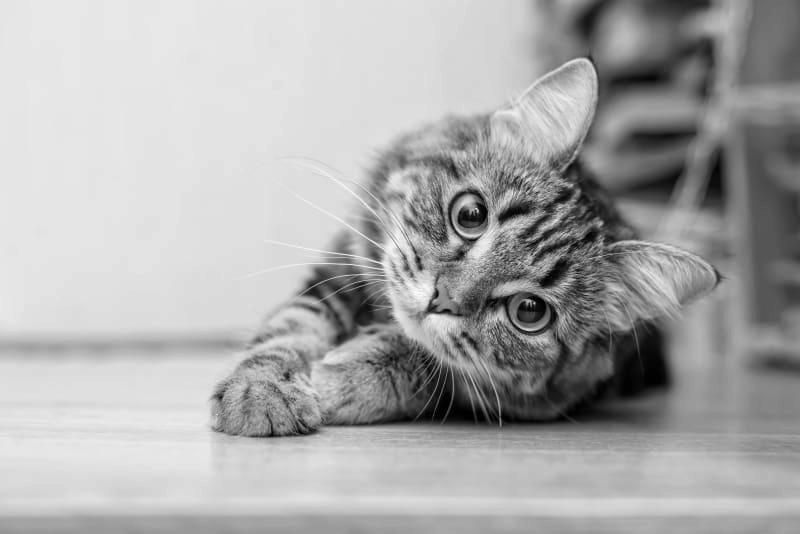
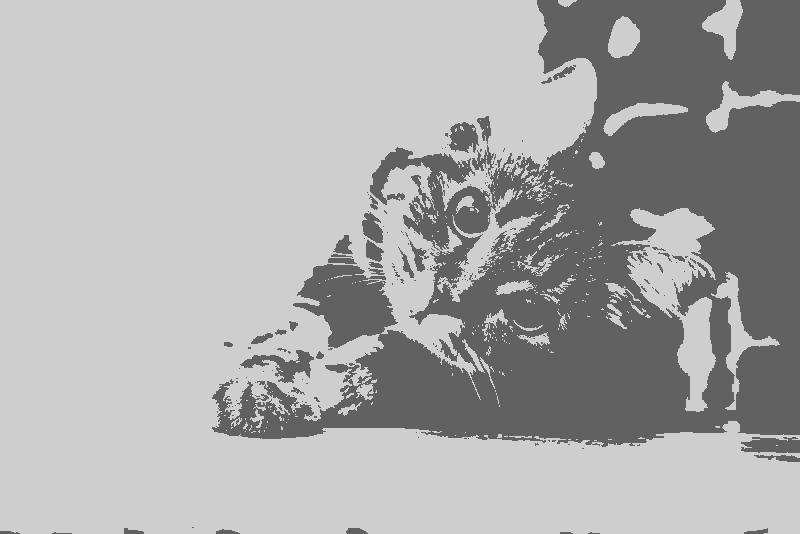
NUQuantization and LMQuantization done

diff --git a/src/main.m b/src/main.m
@@ -1,15 +1,16 @@
-%% Ideal sampling
+%% Image ideal sampling
 %importing the image
 Image = imread("images/cat.jpg");
-imshow(Image)
+figure;imshow(Image)
 
 % Convert the image to grayscale if necessary
 if size(Image, 3) == 3
     Image= rgb2gray(Image);
 end
 figure;imshow(Image)
-...imwrite(DSimage_1,"images/grayed.jpg")
+...imwrite(Image,"images/grayed.jpg")
 
+%% Downsampling and other simple solutions
 %downsampling by how many times
 DS = 3;
 
@@ -42,49 +43,121 @@ RUFimage_2 = imfilter(DSRUimage_1, fspecial("gaussian",6,2));
 subplot(2,1,2);imshow(RUFimage_2); title("Downsampling and resizing up with gaussian filter")
 ...imwrite(RUFimage_2,"images/RUFimage_2.jpg")
 
-%% Lloyd-Max Quantizer
-% desired number of bits for quantization
-LMQ_bits = 7;
+%% Lloyd-Max Quantizer (uniform quantizer)
+% desired number of bits for quantization (1-8)
+% 1-2|2-4|3-8|4-16|5-32|6-64|7-128|8-256
+LMQ_bits = 4;
 
 % Convert the image to double precision for calculations
-LMQvalues = double(Image);
+LMQ_values = double(Image);
 
 % Flatten the image into a 1D array
-LMQ_input_values = LMQvalues(:);
+LMQ_input_values = LMQ_values(:);
 
 % Initialize centroids based on the desired number of quantization levels
 LMQ_min_value = min(LMQ_input_values);
 LMQ_max_value = max(LMQ_input_values);
-centroids = linspace(LMQ_min_value, LMQ_max_value, 2^LMQ_bits);
+LMQ_centroids = linspace(LMQ_min_value, LMQ_max_value, 2^LMQ_bits);
 
-% Iterative refinement (Lloyd-Max algorithm)
-max_iterations = 100;
+% Iterative Lloyd-Max algorithm
+max_iterations = 128;
 for iter = 1:max_iterations
     % Assign each input value to the nearest centroid
-    [~, index] = min(abs(LMQ_input_values - centroids), [], 2);
+
+    % calculates the minimum absolute difference between each element
+    % in LMQ_input_values and the array centroids, along the second 
+    % dimension, effectively assigning each element of LMQ_input_values 
+    % to the nearest centroid
+    [~, LMQ_index] = min(abs(LMQ_input_values - LMQ_centroids), [], 2);
     
     % Update centroids to be the mean of their assigned values
-    for i = 1:length(centroids)
-        centroids(i) = mean(LMQ_input_values(index == i));
+    for i = 1:length(LMQ_centroids)
+        
+        % computes the mean of the elements in the array LMQ_input_values
+        % that are assigned to the centroid represented by index i
+        LMQ_centroids(i) = mean(LMQ_input_values(LMQ_index == i));
     end
     
-    % Check for convergence
-    if iter > 1 && isequal(centroids, prev_centroids)
+    % Check for convergence, checking if matrix end
+    if iter > 1 && isequal(LMQ_centroids, LMQ_prev_centroids)
         break;
     end
-    prev_centroids = centroids;
+    LMQ_prev_centroids = LMQ_centroids;
 end
 
 % Assign each input value to its nearest centroid
-[~, quantized_values] = min(abs(LMQ_input_values - centroids), [], 2);
+[~, LMQ_quantized_values] = min(abs(LMQ_input_values - LMQ_centroids), [], 2);
 
 % Quantized image
-LMQimage = reshape(centroids(quantized_values), size(Image));
+LMQimage = reshape(LMQ_centroids(LMQ_quantized_values), size(Image));
 
 % Display the original and quantized images
-figure; subplot(1, 2, 1); imshow(uint8(LMQvalues)); title('Original Image');
+figure; subplot(1, 2, 1); imshow(uint8(LMQ_values)); title('Original Image');
 subplot(1, 2, 2); imshow(uint8(LMQimage)); title(['Quantized Image (' num2str(LMQ_bits) ' bits)']);
-imwrite(uint8(LMQimage),"images/LMQimage.jpg")
+...imwrite(uint8(LMQimage),"images/LMQimage.jpg")
+
+%% NonUniform Quantizer
+% desired number of bits for quantization (2-384)
+% 32|64|128|256|384
+NU_bits = 256;
+
+% Convert the image to double precision for calculations
+NU_values = double(Image);
+
+% Flatten the image into a 1D array
+NU_input_values = NU_values(:);
+
+% Initialize centroids based on the desired number of quantization levels
+NU_min_value = min(NU_input_values);
+NU_max_value = max(NU_input_values);
+
+% Compute histogram of input image
+[counts, bins] = imhist(uint8(NU_values));
+
+% Compute cumulative histogram
+NU_cumulative_counts = cumsum(counts);
+
+% Compute cumulative distribution function (CDF)
+NU_cdf = NU_cumulative_counts / numel(NU_input_values);
+...figure;plot(NU_cdf);title('Cumulative colour distribution');
+
+% Without the "NU_cdf = NU_cdf + eps * rand(size(NU_cdf));" line there will
+% be an error: "Sample points must be unique" suggests 
+% that there are duplicate values in the cdf array, which
+% is used as the sample points for interpolation.
+
+% Add small noise to ensure uniqueness in CDF
+epsilon = 1e-10;
+NU_cdf = NU_cdf + epsilon * rand(size(NU_cdf));
+
+% Compute quantization intervals based on CDF
+NU_quantization_intervals = interp1(NU_cdf, bins, linspace(NU_min_value/NU_max_value, NU_max_value/NU_max_value, NU_bits));
+
+% Quantize input values based on quantization intervals
+NU_quantized_values = zeros(size(NU_input_values));
+for i = 1:(NU_bits - 1)
+    % Assign input values to quantization levels based on intervals
+    NU_quantized_values(NU_input_values >= NU_quantization_intervals(i) & NU_input_values < NU_quantization_intervals(i+1)) = i;
+end
+    % Handle the last interval separately to avoid out-of-bounds indexing
+    NU_quantized_values(NU_input_values >= NU_quantization_intervals(NU_bits)) = NU_bits;
+
+% Reshape quantized values back to image dimensions
+NUimage = reshape(NU_quantized_values, size(NU_values));
+
+% Display original and quantized images
+figure;subplot(1, 2, 1);imshow(uint8(Image));title('Original Image');
+subplot(1, 2, 2);imshow(uint8(NUimage));title(['Quantized Image (Non-uniform, ', num2str(NU_bits), ' levels)']);
+...imwrite(uint8(NUimage),"images/NUimage.jpg")
+
+%% Dithering
+
+
+
+
+
+
+
 
 
 
